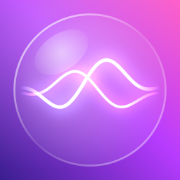
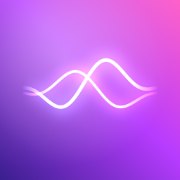
Изи: одна сфера — волны прямо в ней, без внутреннего стеклянного шара (кнопка, разговор, значки); в чате одна кнопка голоса — большая «Изи», справа только ➤ при тексте
Claude-Session: https://claude.ai/code/session_01WMZJrWHjA7TvAAdMp4P6yk

diff --git a/src/web/app.js b/src/web/app.js
@@ -149,7 +149,7 @@ let iziPainted = ""
 function iziPaint() {
   const p = iziCol(); if (iziPainted === p[0]) return; iziPainted = p[0]
   const st = document.documentElement.style; p[2].forEach((c, i) => st.setProperty("--izi" + (i + 1), c))
-  const l = document.querySelector('link[rel="apple-touch-icon"]'); if (l) l.href = p[0] === "em" ? "icon-180.png?v=4" : `icon-${p[0]}-180.png?v=1`   // значок берётся при добавлении на экран «Домой»
+  const l = document.querySelector('link[rel="apple-touch-icon"]'); if (l) l.href = p[0] === "em" ? "icon-180.png?v=5" : `icon-${p[0]}-180.png?v=2`   // значок берётся при добавлении на экран «Домой»
 }
 const proteinGoal = () => H().proteinGoal || Math.round((H().weight || 80) * 1.6)   // по умолчанию 1,6 г на кг веса
 const live = list => list.filter(x => x && !x.deleted)
@@ -2071,7 +2071,7 @@ function renderChatHTML() {
   return `<div class="chat-tools"><button data-do="talk" class="tk-chip"><b class="mini-orb"></b>Поговорить</button><button data-brief="morning">☀ Утренняя сводка</button><button data-brief="evening">🌙 Вечерняя</button><button data-do="memory">🧠 Память</button><button data-do="chat-clear">🧹 Очистить</button></div>
     <div class="chat-list" id="chat-list">${chatItems()}</div>
     <div class="chat-bar"><button class="cam plus" aria-label="Добавить фото, видео или файл">${ICO.add}</button><textarea id="chat-in" rows="1" placeholder="Напишите или скажите…" enterkeyhint="send"></textarea>
-    <button class="mic wave" aria-label="Нажмите — говорить, держите — как рация"><canvas></canvas></button><button class="send" aria-label="Отправить">${ICO.send}</button></div>`
+    <button class="send" aria-label="Отправить">${ICO.send}</button></div>`
 }
 const linkify = s => esc(s).replace(/https?:\/\/[^\s<]+/g, u => `<a href="${u}" target="_blank" rel="noopener">${u}</a>`)
 function chatItems() {
@@ -2376,8 +2376,8 @@ function bind() {
     if (chatBusy && !askWait) setBusyUI(true)
     // тронули текст во время записи — не отправлять по паузе: можно поправить и нажать ➤
     inp.addEventListener("focus", () => { if (voice) { const t = inp.value, r = rec; voiceReset(); try { r && r.stop() } catch (e) {} inp.value = t; grow(inp); toast("✎ Поправьте и нажмите ➤") } })
-    if (voice) { $(".chat-bar .mic", v).classList.add("on"); inp.placeholder = "Слушаю… ➤ — отправить сразу"; if (voice.text) { inp.value = voice.text; grow(inp) } }
-    const wb = $(".chat-bar .mic", v); silkCanvas($("canvas", wb), "btn"); holdToTalk(wb, () => micStart())
+    if (voice) { inp.placeholder = "Слушаю… ➤ — отправить сразу"; if (voice.text) { inp.value = voice.text; grow(inp) } }
+    // голос — одна кнопка: большая «Изи» внизу (держать — как рация, ещё раз нажать — разговор); справа только ➤, когда есть текст
     $(".chat-bar .cam", v).onclick = e => plusMenu(e.currentTarget)
     grow(inp)
     bindChatList()
@@ -3371,40 +3371,39 @@ function silkLines(c, T, d, active) {
     x.strokeStyle = g; x.lineWidth = 1.8 * d; x.lineCap = "round"; x.lineJoin = "round"; x.stroke()
   })
 }
-// Кнопка «Помощник» — как иконка приложения: стеклянный шар, внутри две светящиеся волны с растворяющимися концами
+// Кнопка «Помощник» — как иконка приложения: одна цветная сфера, волны прямо в ней (без внутреннего шара и обводки).
+// Край сферы тает наружу в ноль, концы волн растворяются, без светящихся точек
+function iziSphere(x, W, H, R, edge, P, waves, o = {}) {
+  const cx = W / 2, cy = H / 2
+  x.globalAlpha = o.alpha || 1
+  const bg = x.createLinearGradient(cx - R, cy + R, cx + R, cy - R); bg.addColorStop(0, P[2][0]); bg.addColorStop(.55, P[2][1]); bg.addColorStop(1, P[2][2]); x.fillStyle = bg; x.fillRect(0, 0, W, H)
+  const lt = x.createRadialGradient(cx - R * .35, cy - R * .45, 0, cx - R * .2, cy - R * .25, R * 1.25)   // объём: свет сверху слева
+  lt.addColorStop(0, "rgba(255,255,255,.3)"); lt.addColorStop(.5, "rgba(255,255,255,.06)"); lt.addColorStop(1, "rgba(255,255,255,0)"); x.fillStyle = lt; x.fillRect(0, 0, W, H)
+  const sd = x.createRadialGradient(cx - R * .15, cy - R * .2, R * .6, cx, cy, R * 1.05)                  // и мягкая тень к краю
+  sd.addColorStop(0, "rgba(0,40,50,0)"); sd.addColorStop(1, "rgba(0,40,60,.22)"); x.fillStyle = sd; x.fillRect(0, 0, W, H)
+  x.globalAlpha = 1; x.globalCompositeOperation = o.mode || "lighter"; waves(); x.globalCompositeOperation = "destination-in"
+  const fm = x.createRadialGradient(cx, cy, 0, cx, cy, edge); fm.addColorStop(0, "#000"); fm.addColorStop(R / edge, "#000"); fm.addColorStop(1, "rgba(0,0,0,0)"); x.fillStyle = fm; x.fillRect(0, 0, W, H)
+  x.globalCompositeOperation = "source-over"
+}
 function silkOrb(c, T, d, active) {
   const x = c.getContext("2d"), W = c.width, H = c.height, a = active ? SILK.lv : 0
   x.clearRect(0, 0, W, H)
-  const cx = W / 2, cy = H / 2, R = W * .42, P = iziCol()
-  const bg = x.createLinearGradient(0, H, W, 0); bg.addColorStop(0, P[2][0]); bg.addColorStop(.55, P[2][1]); bg.addColorStop(1, P[2][2]); x.fillStyle = bg; x.fillRect(0, 0, W, H)
-  const sh = x.createRadialGradient(W * .25, H * .15, 0, W * .25, H * .15, W * .8); sh.addColorStop(0, "rgba(255,255,255,.22)"); sh.addColorStop(1, "rgba(255,255,255,0)"); x.fillStyle = sh; x.fillRect(0, 0, W, H)
-  x.globalCompositeOperation = "destination-in"   // внешнее кольцо: от стеклянного края наружу — в ноль
-  const fm = x.createRadialGradient(cx, cy, 0, cx, cy, W / 2); fm.addColorStop(0, "#000"); fm.addColorStop(R / (W / 2), "#000"); fm.addColorStop(1, "rgba(0,0,0,0)"); x.fillStyle = fm; x.fillRect(0, 0, W, H)
-  x.globalCompositeOperation = "source-over"
-  const b = x.createRadialGradient(cx - R * .3, cy - R * .35, R * .1, cx, cy, R)
-  b.addColorStop(0, "rgba(255,255,255,.32)"); b.addColorStop(1, "rgba(255,255,255,.08)")
-  x.fillStyle = b; x.beginPath(); x.arc(cx, cy, R, 0, 7); x.fill()
-  x.save(); x.beginPath(); x.arc(cx, cy, R * .98, 0, 7); x.clip(); x.globalCompositeOperation = "lighter"
-  const sp = active ? 2 + a * 1.5 : .9, len = R * 1.85
-  ;[[P[3], .95, .04, .32, 2.1, .035, .18, 1.25], [P[4], 1, -.03, .42, 0, .045, .22, 1]].forEach(([rgb, al, dy, am, ph, lw, gw, k]) => {
-    const amp = R * am * (1 + a * .5), g = x.createLinearGradient(cx - len / 2, 0, cx + len / 2, 0)
-    g.addColorStop(0, `rgba(${rgb},0)`); g.addColorStop(.28, `rgba(${rgb},${al})`); g.addColorStop(.72, `rgba(${rgb},${al})`); g.addColorStop(1, `rgba(${rgb},0)`)
-    x.beginPath()
-    for (let i = 0; i <= 80; i++) {
-      const u = i / 80, env = Math.pow(Math.sin(Math.PI * u), 1.5), px = cx - len / 2 + u * len
-      const py = cy + dy * R + amp * env * Math.sin(u * Math.PI * 2.3 + ph + T * sp * k)
-      i ? x.lineTo(px, py) : x.moveTo(px, py)
-    }
-    x.lineCap = "round"; x.lineJoin = "round"; x.strokeStyle = g; x.lineWidth = Math.max(1.2 * d, R * lw)
-    x.shadowColor = `rgba(${rgb},1)`; x.shadowBlur = R * gw; x.stroke(); x.shadowBlur = 0
+  const cx = W / 2, cy = H / 2, R = W * .4, P = iziCol()
+  iziSphere(x, W, H, R, W / 2, P, () => {
+    const sp = active ? 2 + a * 1.5 : .9, len = R * 1.8
+    ;[[P[3], .95, .04, .32, 2.1, .035, .18, 1.25], [P[4], 1, -.03, .42, 0, .045, .22, 1]].forEach(([rgb, al, dy, am, ph, lw, gw, k]) => {
+      const amp = R * am * (1 + a * .5), g = x.createLinearGradient(cx - len / 2, 0, cx + len / 2, 0)
+      g.addColorStop(0, `rgba(${rgb},0)`); g.addColorStop(.28, `rgba(${rgb},${al})`); g.addColorStop(.72, `rgba(${rgb},${al})`); g.addColorStop(1, `rgba(${rgb},0)`)
+      x.beginPath()
+      for (let i = 0; i <= 80; i++) {
+        const u = i / 80, env = Math.pow(Math.sin(Math.PI * u), 1.5), px = cx - len / 2 + u * len
+        const py = cy + dy * R + amp * env * Math.sin(u * Math.PI * 2.3 + ph + T * sp * k)
+        i ? x.lineTo(px, py) : x.moveTo(px, py)
+      }
+      x.lineCap = "round"; x.lineJoin = "round"; x.strokeStyle = g; x.lineWidth = Math.max(1.2 * d, R * lw)
+      x.shadowColor = `rgba(${rgb},1)`; x.shadowBlur = R * gw; x.stroke(); x.shadowBlur = 0
+    })
   })
-  x.globalCompositeOperation = "source-over"; x.restore()
-  const rim = x.createLinearGradient(cx - R, cy - R, cx + R, cy + R)
-  rim.addColorStop(0, "rgba(255,255,255,.8)"); rim.addColorStop(.5, "rgba(255,255,255,.12)"); rim.addColorStop(1, "rgba(255,255,255,.5)")
-  x.strokeStyle = rim; x.lineWidth = Math.max(d, R * .025); x.beginPath(); x.arc(cx, cy, R, 0, 7); x.stroke()
-  const hl = x.createRadialGradient(cx - R * .38, cy - R * .5, 0, cx - R * .38, cy - R * .5, R * .45)
-  hl.addColorStop(0, "rgba(255,255,255,.5)"); hl.addColorStop(1, "rgba(255,255,255,0)")
-  x.fillStyle = hl; x.beginPath(); x.ellipse(cx - R * .38, cy - R * .5, R * .4, R * .24, -.6, 0, 7); x.fill()
 }
 // Полоса записи: две волны плывут медленно, как на кнопке; пока говорите — чуть шире размах, но не быстрее.
 // Без точки: только волны, концы растворяются. Всё свечение помещается внутри полосы
@@ -5236,39 +5235,26 @@ function silkTalk(c, T, d) {
   SILK.ie *= .975; SILK.ye *= .975
   x.clearRect(0, 0, W, H)
   const cx = W / 2, cy = H / 2, R = Math.min(W, H) * .34
-  // внешнее кольцо: свет растворяется наружу, дышит с голосом
-  const halo = R * (1.5 + .12 * Math.max(SILK.il, SILK.yl))
-  const hg = x.createRadialGradient(cx, cy, R * .96, cx, cy, halo)
-  hg.addColorStop(0, `rgba(150,235,225,${.22 + .16 * Math.max(SILK.il, SILK.yl)})`); hg.addColorStop(.3, "rgba(120,200,255,.07)"); hg.addColorStop(1, "rgba(120,200,255,0)")
-  x.fillStyle = hg; x.beginPath(); x.arc(cx, cy, halo, 0, Math.PI * 2); x.moveTo(cx + R * .99, cy); x.arc(cx, cy, R * .99, 0, Math.PI * 2, true); x.fill()   // только снаружи шара
-  // стекло
-  const b = x.createRadialGradient(cx - R * .3, cy - R * .35, R * .1, cx, cy, R)
-  b.addColorStop(0, "rgba(255,255,255,.16)"); b.addColorStop(.7, "rgba(255,255,255,.03)"); b.addColorStop(1, "rgba(255,255,255,.1)")
-  x.fillStyle = b; x.beginPath(); x.arc(cx, cy, R, 0, 7); x.fill()
-  x.save(); x.beginPath(); x.arc(cx, cy, R * .985, 0, 7); x.clip(); x.globalCompositeOperation = "screen"
-  const len = R * 1.9
-  // [цвет, уровень, смещение, базовый размах, фаза, скорость, толщина]
+  // одна сфера в цветах Изи, без стеклянной оболочки; край тает наружу и дышит с голосом
   const P = iziCol(), ci = P[0] === "em" ? "95,185,255" : P[3], cy2 = P[0] === "em" ? "80,245,190" : P[4]
-  ;[[ci, SILK.il, .05, .2, 2.1, .75, .03], [cy2, SILK.yl, -.05, .24, 0, .62, .034]].forEach(([rgb, lv, dy, am, ph, sp, lw]) => {
-    const amp = R * am * (1 + lv * .6), jit = lv * .14
-    const g = x.createLinearGradient(cx - len / 2, 0, cx + len / 2, 0)
-    g.addColorStop(0, `rgba(${rgb},0)`); g.addColorStop(.3, `rgba(${rgb},${.75 + lv * .25})`); g.addColorStop(.7, `rgba(${rgb},${.75 + lv * .25})`); g.addColorStop(1, `rgba(${rgb},0)`)
-    x.beginPath()
-    for (let i = 0; i <= 120; i++) {
-      const u = i / 120, env = Math.pow(Math.sin(Math.PI * u), 1.5), px = cx - len / 2 + u * len
-      const py = cy + dy * R + amp * env * (Math.sin(u * Math.PI * 2.2 + ph + T * sp) + jit * Math.sin(u * Math.PI * 9 + T * 7.5))
-      i ? x.lineTo(px, py) : x.moveTo(px, py)
-    }
-    x.lineCap = "round"; x.lineJoin = "round"; x.strokeStyle = g; x.lineWidth = Math.max(1.4 * d, R * lw * (1 + lv * .25))
-    x.shadowColor = `rgba(${rgb},.9)`; x.shadowBlur = R * (.1 + lv * .12); x.stroke(); x.shadowBlur = 0
-  })
-  x.globalCompositeOperation = "source-over"; x.restore()
-  const rim = x.createLinearGradient(cx - R, cy - R, cx + R, cy + R)
-  rim.addColorStop(0, "rgba(255,255,255,.7)"); rim.addColorStop(.5, "rgba(255,255,255,.1)"); rim.addColorStop(1, "rgba(255,255,255,.4)")
-  x.strokeStyle = rim; x.lineWidth = Math.max(d, R * .018); x.beginPath(); x.arc(cx, cy, R, 0, 7); x.stroke()
-  const hl = x.createRadialGradient(cx - R * .38, cy - R * .5, 0, cx - R * .38, cy - R * .5, R * .45)
-  hl.addColorStop(0, "rgba(255,255,255,.3)"); hl.addColorStop(1, "rgba(255,255,255,0)")
-  x.fillStyle = hl; x.beginPath(); x.ellipse(cx - R * .38, cy - R * .5, R * .4, R * .22, -.6, 0, 7); x.fill()
+  const edge = R * (1.2 + .1 * Math.max(SILK.il, SILK.yl))
+  iziSphere(x, W, H, R, edge, P, () => {
+    const len = R * 1.9
+    // [цвет, уровень, смещение, базовый размах, фаза, скорость, толщина]
+    ;[[ci, SILK.il, .05, .2, 2.1, .75, .03], [cy2, SILK.yl, -.05, .24, 0, .62, .034]].forEach(([rgb, lv, dy, am, ph, sp, lw]) => {
+      const amp = R * am * (1 + lv * .6), jit = lv * .14
+      const g = x.createLinearGradient(cx - len / 2, 0, cx + len / 2, 0)
+      g.addColorStop(0, `rgba(${rgb},0)`); g.addColorStop(.3, `rgba(${rgb},${.8 + lv * .2})`); g.addColorStop(.7, `rgba(${rgb},${.8 + lv * .2})`); g.addColorStop(1, `rgba(${rgb},0)`)
+      x.beginPath()
+      for (let i = 0; i <= 120; i++) {
+        const u = i / 120, env = Math.pow(Math.sin(Math.PI * u), 1.5), px = cx - len / 2 + u * len
+        const py = cy + dy * R + amp * env * (Math.sin(u * Math.PI * 2.2 + ph + T * sp) + jit * Math.sin(u * Math.PI * 9 + T * 7.5))
+        i ? x.lineTo(px, py) : x.moveTo(px, py)
+      }
+      x.lineCap = "round"; x.lineJoin = "round"; x.strokeStyle = g; x.lineWidth = Math.max(1.4 * d, R * lw * (1 + lv * .25))
+      x.shadowColor = `rgba(${rgb},.9)`; x.shadowBlur = R * (.1 + lv * .12); x.stroke(); x.shadowBlur = 0
+    })
+  }, { alpha: .5, mode: "screen" })
 }
 Object.assign(SILK, { il: 0, yl: 0, ie: 0, ye: 0 })
 

diff --git a/src/web/style.css b/src/web/style.css
@@ -579,13 +579,8 @@ body.kb #tabs #fab { visibility: hidden; }
 .tag { font-size: 12px; font-weight: 600; color: var(--accent); background: color-mix(in srgb, var(--accent) 12%, transparent); padding: 4px 9px; border-radius: 10px; white-space: nowrap; }
 .goal-open { border: 0; background: none; padding: 0; text-align: left; color: inherit; min-width: 0; }
 
-/* ── «Шёлк»: кнопка-волна, полоса записи, меню «+» ── */
-.chat-bar .mic.wave, .chat-bar .mic.wave.on { position: relative; padding: 0; overflow: hidden; animation: none; background: linear-gradient(150deg, var(--accent-2), var(--accent));
-  box-shadow: 0 6px 14px -6px color-mix(in srgb, var(--accent) 80%, transparent); touch-action: none; -webkit-touch-callout: none; -webkit-user-select: none; user-select: none; }
-.chat-bar .mic.wave canvas { position: absolute; inset: 0; width: 100%; height: 100%; display: block; }
-.chat-bar .mic.wave:active { transform: scale(.93); }
+/* ── «Шёлк»: полоса записи, меню «+» (голос — большая кнопка «Изи», у поля только ➤) ── */
 .chat-bar:not(.typed):not(.busy) .send { display: none; }
-.chat-bar.typed .mic, .chat-bar.busy .mic { display: none; }
 .chat-bar .cam.plus { background: var(--card); color: var(--text); padding: 10px; box-shadow: 0 1px 2px rgba(0, 0, 0, .06); transition: background .25s, color .25s; }
 .chat-bar .cam.plus svg { transition: transform .45s cubic-bezier(.2, .9, .25, 1.3); }
 .chat-bar .cam.plus.open { background: var(--accent); color: #fff; }
@@ -891,7 +886,6 @@ em.sh { font-style: normal; color: #AF52DE; display: inline-flex; vertical-align
 /* Кнопка «Помощник» в цветах иконки приложения: зелёный в голубой, мягкий блик */
 #tabs #fab .orb, #tabs #fab.rec .orb { padding: 0; background: none; border-radius: 0; overflow: visible; box-shadow: none;
   filter: drop-shadow(0 7px 10px color-mix(in srgb, var(--izi2, #18b98a) 45%, transparent)); }   /* фон шара рисует canvas, край растворяется */
-.chat-bar .mic.wave, .chat-bar .mic.wave.on { background: linear-gradient(150deg, var(--izi2, #18b98a), var(--izi1, #0b8f5c)); box-shadow: 0 6px 14px -6px color-mix(in srgb, var(--izi1, #0b8f5c) 80%, transparent); }
 #silk { background: linear-gradient(110deg, var(--izi1, #0A9F6E), var(--izi2, #16B57E) 50%, var(--izi3, #0A84FF)); box-shadow: 0 12px 28px -10px color-mix(in srgb, var(--izi1, #0A9F6E) 80%, transparent); }
 .set .izi-c { display: flex; gap: 8px; }
 .set .izi-c button { width: 28px; height: 28px; border-radius: 50%; border: 0; padding: 0; box-shadow: 0 2px 6px rgba(0, 0, 0, .15); transition: transform .2s; }

diff --git a/src/web/tools/icon_orb.html b/src/web/tools/icon_orb.html
@@ -59,5 +59,20 @@ V.a2=function(){ bg(); const cx=W/2,cy=W/2,R=W*.42; orbShell(cx,cy,R)
  inside(cx,cy,R,()=>{ waveF(cx,cy+R*.04,R*1.85,R*.32,"140,205,255",.95,2.1,R*.035,R*.18); waveF(cx,cy-R*.03,R*1.85,R*.42,"150,255,220",1,0,R*.045,R*.22) })
  orbGlass(cx,cy,R) }
 
+// 2026-11-05: одна сфера — без внутреннего стеклянного шара и обводки, волны прямо в сфере, край сферы тает в фон
+function sphereOne(cx,cy,R,edge,cols){ const t=document.createElement("canvas"); t.width=t.height=W; const y=t.getContext("2d")
+ const g=y.createLinearGradient(cx-R,cy+R,cx+R,cy-R); g.addColorStop(0,cols[0]); g.addColorStop(.55,cols[1]); g.addColorStop(1,cols[2]); y.fillStyle=g; y.fillRect(0,0,W,W)
+ const lt=y.createRadialGradient(cx-R*.35,cy-R*.45,0,cx-R*.2,cy-R*.25,R*1.25); lt.addColorStop(0,"rgba(255,255,255,.3)"); lt.addColorStop(.5,"rgba(255,255,255,.06)"); lt.addColorStop(1,"rgba(255,255,255,0)"); y.fillStyle=lt; y.fillRect(0,0,W,W)
+ const sd=y.createRadialGradient(cx-R*.15,cy-R*.2,R*.6,cx,cy,R*1.05); sd.addColorStop(0,"rgba(0,40,50,0)"); sd.addColorStop(1,"rgba(0,40,60,.22)"); y.fillStyle=sd; y.fillRect(0,0,W,W)
+ y.globalCompositeOperation="destination-in"; const fm=y.createRadialGradient(cx,cy,0,cx,cy,edge); fm.addColorStop(0,"#000"); fm.addColorStop(R/edge,"#000"); fm.addColorStop(1,"rgba(0,0,0,0)"); y.fillStyle=fm; y.fillRect(0,0,W,W)
+ x.drawImage(t,0,0) }
+function deepBg(cols){ const g=x.createLinearGradient(0,W,W,0); g.addColorStop(0,cols[3]); g.addColorStop(1,cols[4]); x.fillStyle=g; x.fillRect(0,0,W,W) }
+window.ONE={ cols:["#0b8f5c","#18b98a","#1f8fff","#06261c","#072a3c"], w1:"140,205,255", w2:"150,255,220" }
+V.one=function(){ const o=window.ONE,cx=W/2,cy=W/2,R=W*.36; deepBg(o.cols); sphereOne(cx,cy,R,W*.5,o.cols)
+ x.save(); x.globalCompositeOperation="lighter"; waveF(cx,cy+R*.04,R*1.8,R*.32,o.w1,.95,2.1,R*.035,R*.18); waveF(cx,cy-R*.03,R*1.8,R*.42,o.w2,1,0,R*.045,R*.22); x.restore() }
+V.flat=function(){ const o=window.ONE,cx=W/2,cy=W/2,R=W*.42; bg()
+ const lt=x.createRadialGradient(cx-R*.35,cy-R*.45,0,cx-R*.2,cy-R*.25,R*1.25); lt.addColorStop(0,"rgba(255,255,255,.25)"); lt.addColorStop(1,"rgba(255,255,255,0)"); x.fillStyle=lt; x.fillRect(0,0,W,W)
+ x.save(); x.globalCompositeOperation="lighter"; waveF(cx,cy+R*.04,R*1.8,R*.32,o.w1,.95,2.1,R*.035,R*.18); waveF(cx,cy-R*.03,R*1.8,R*.42,o.w2,1,0,R*.045,R*.22); x.restore() }
+
 window.draw=k=>{x.clearRect(0,0,W,W);V[k]()}
 </script>

diff --git a/src/web/index.html b/src/web/index.html
@@ -11,8 +11,8 @@
 <meta name="referrer" content="no-referrer">
 <title>IZIDAY</title>
 <link rel="manifest" href="manifest.webmanifest">
-<link rel="apple-touch-icon" href="icon-180.png?v=4">
-<link rel="icon" href="icon-192.png?v=4">
+<link rel="apple-touch-icon" href="icon-180.png?v=5">
+<link rel="icon" href="icon-192.png?v=5">
 <link rel="stylesheet" href="style.css">
 <link rel="stylesheet" href="gami.css">
 <link rel="stylesheet" href="onb.css">

diff --git a/src/web/tools/icons.py b/src/web/tools/icons.py
@@ -1,6 +1,6 @@
 #!/usr/bin/env python3
-"""Значки веб-приложения: шар Изи на зелёном (вариант А, крупный шар, волны с плавными концами, 2026-11-05): icon-180/192/512.png.
-Исходник 1024px — tools/icon-orb-1024.png, нарисован tools/icon_orb.html (draw("a2") в Chromium).
+"""Значки веб-приложения: одна сфера Изи — волны прямо на зелёном, без внутреннего стеклянного шара (2026-11-05): icon-180/192/512.png.
+Исходник 1024px — tools/icon-orb-1024.png, нарисован tools/icon_orb.html (draw("flat") в Chromium).
 Квадрат без скруглений — iPhone скругляет сам."""
 import pathlib
 from PIL import Image
